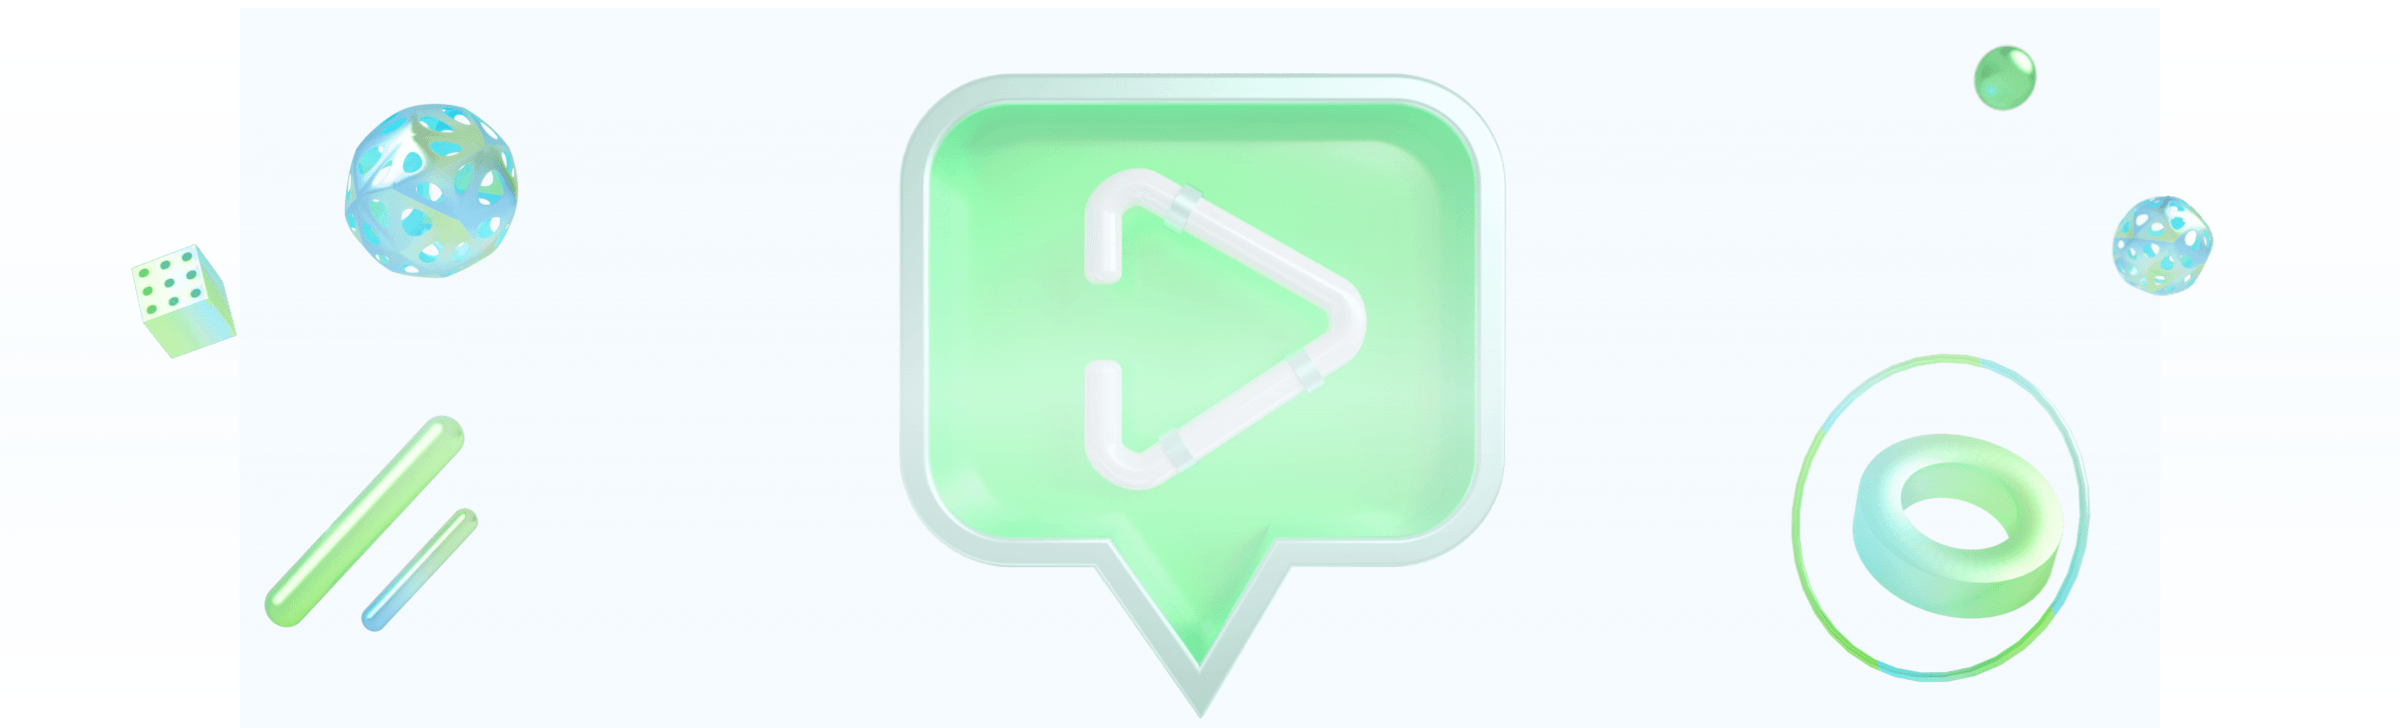
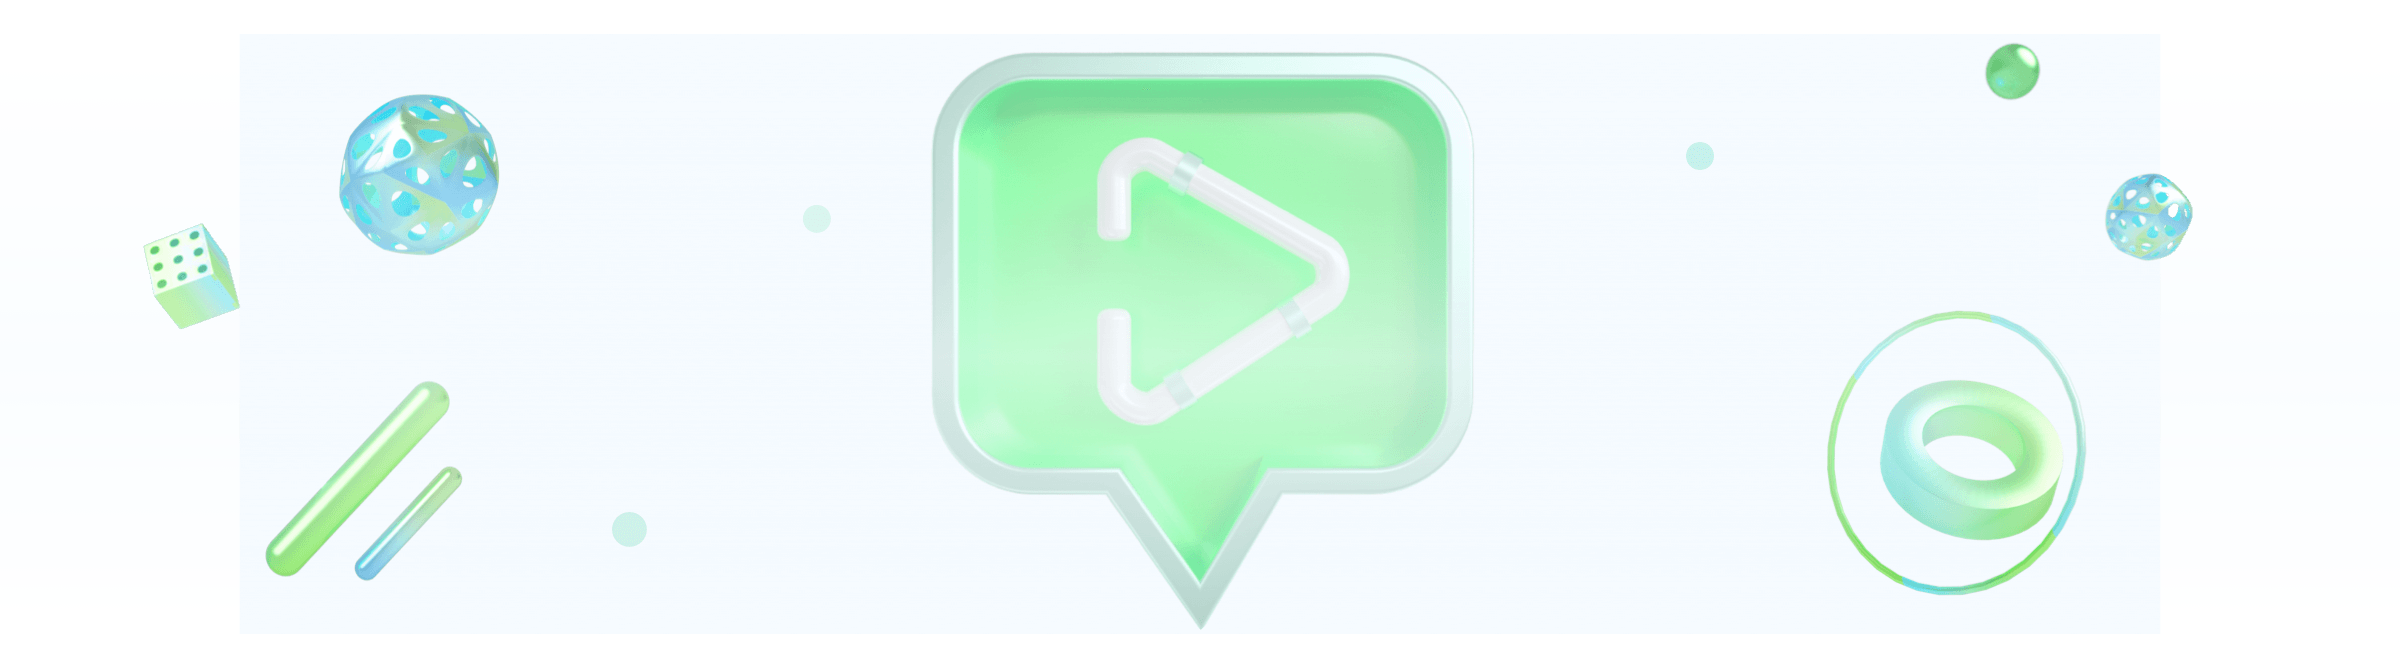
fix: img

diff --git a/newton-website/src/static/css/ecosystem.scss b/newton-website/src/static/css/ecosystem.scss
@@ -41,7 +41,7 @@
 // ecosystem
 #ecosystem {
   .getnew-banner {
-    @apply pt-[98%] sm:pt-[94%] md:pt-[30%];
+    @apply pt-[98%] sm:pt-[94%] md:pt-[25%];
 
     h2 {
       @apply top-[23%] md:top-[27%];
@@ -119,7 +119,7 @@
 // getNew
 #getnew {
   .getnew-banner {
-    @apply pt-[127%] sm:pt-[122%] md:pt-[30%];
+    @apply pt-[127%] sm:pt-[122%] md:pt-[24%];
     h2 {
       @apply text-5xl md:text-[5.32rem];
     }
@@ -277,7 +277,7 @@
 // community
 #community {
   .getnew-banner {
-    @apply pt-[96%] sm:pt-[92%] md:pt-[30%];
+    @apply pt-[96%] sm:pt-[92%] md:pt-[26%];
     h2 {
       @apply md:top-[45%] top-[50%];
     }
@@ -309,7 +309,7 @@
   #community,
   #getnew {
     .getnew-banner {
-      padding-top: 360px !important;
+      padding-top: 300px !important;
     }
   }
 
